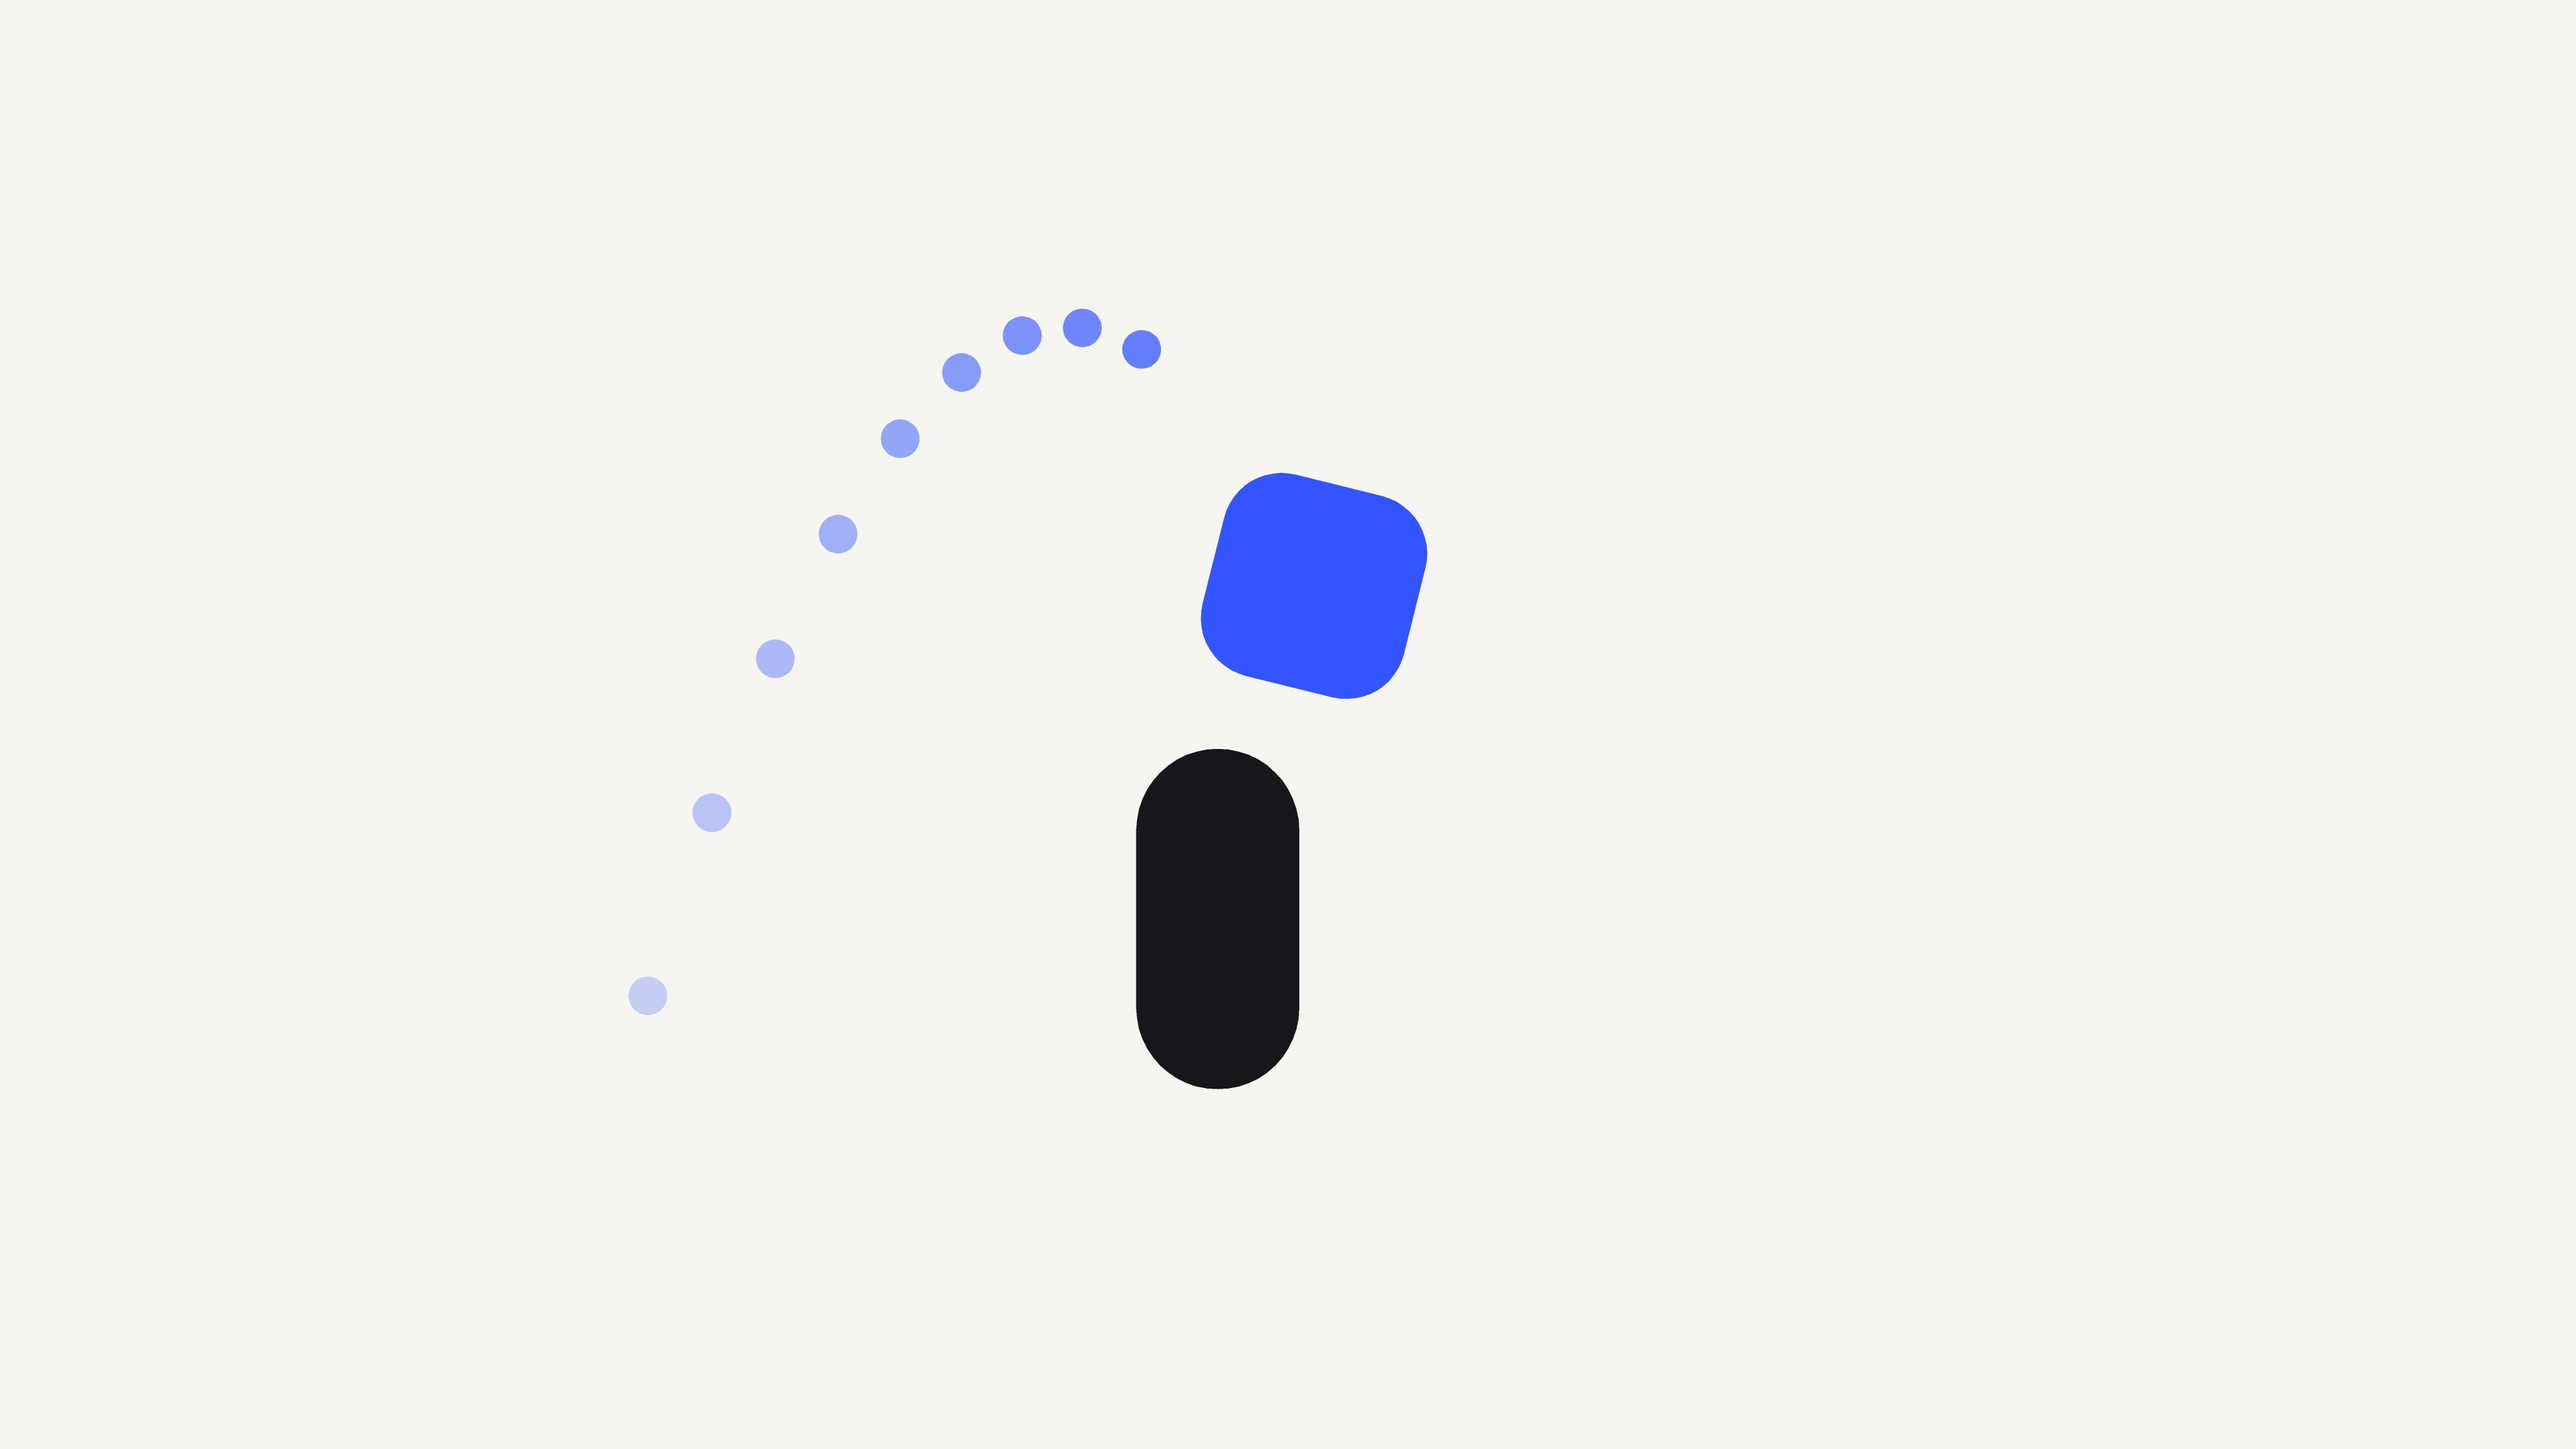
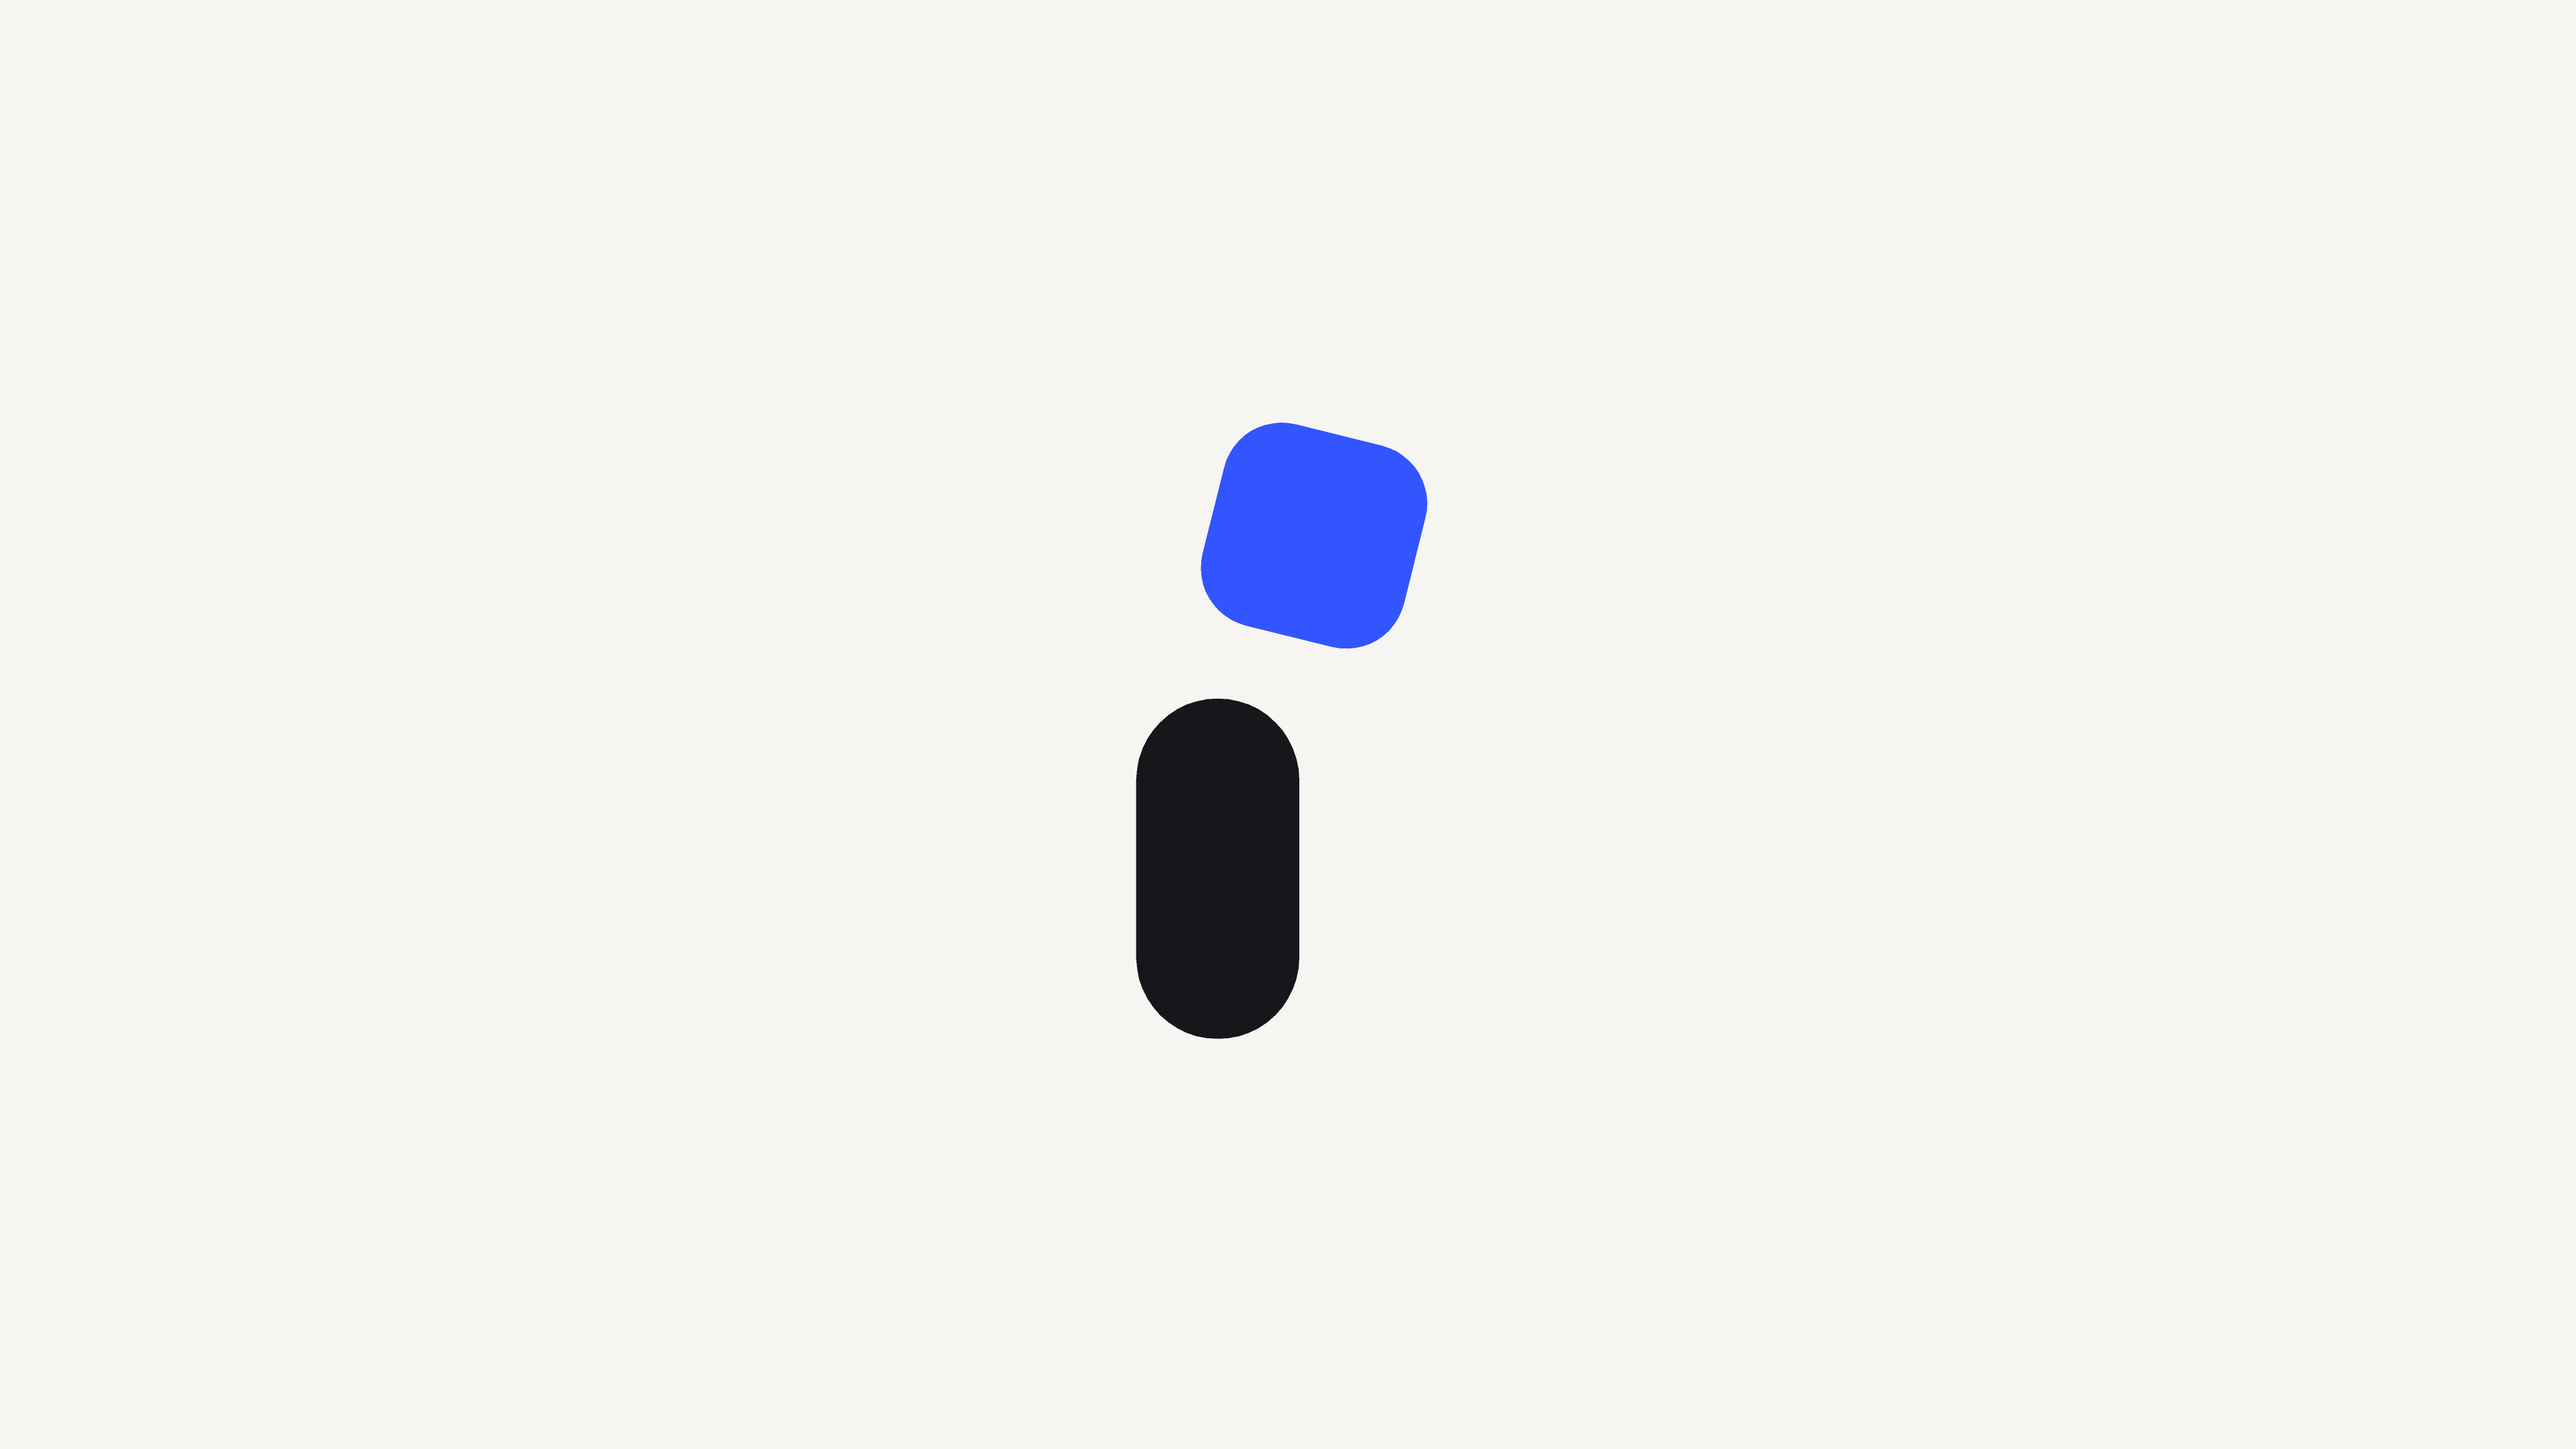
TS-3210 fix: Play 헤더를 마크만으로 바꾼다 (kgbvsfbi/firstComMono#3210)
점 궤적이 물을 뿌리는 모양으로 읽혀서 뺀다

diff --git a/brand/play.py b/brand/play.py
@@ -22,7 +22,7 @@ OUT = os.path.join(HERE, "play")
 ICON = 512
 HEADER = (4096, 2304)
 # 고른 배치 — HEADER_LAYOUTS / ICON_THEMES의 키
-HEADER_LAYOUT = "hop"
+HEADER_LAYOUT = "center"
 HEADER_THEME = "light"
 ICON_THEME = "light"
 
